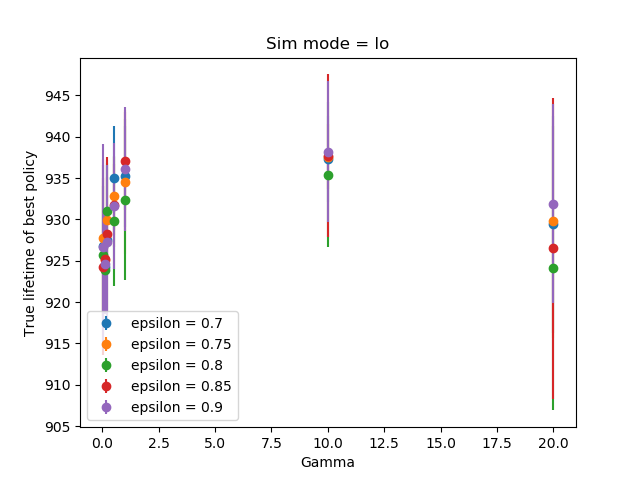
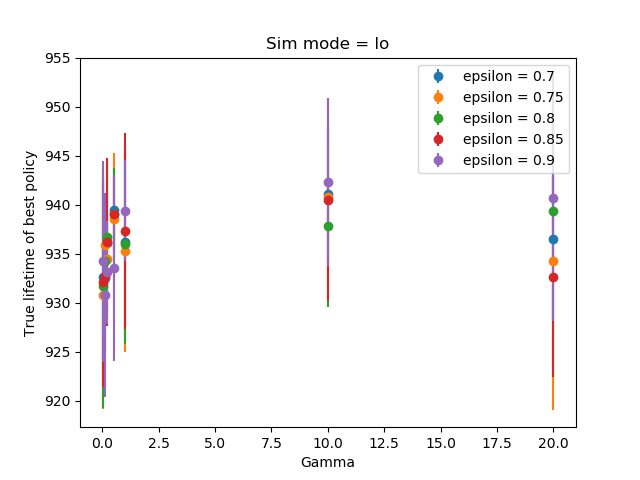
Sim=lo results with sigma=102

diff --git a/Simulation parameter spaces/analyze_log.py b/Simulation parameter spaces/analyze_log.py
@@ -10,7 +10,7 @@ import pandas as pd
 import numpy as np 
 import matplotlib.pyplot as plt
 
-sims = pd.read_csv('log.csv')
+sims = pd.read_csv('log2.csv')
 
 for sim_name, sim_group in sims.groupby('sim mode'):
     print('Starting sim mode:', sim_name)
